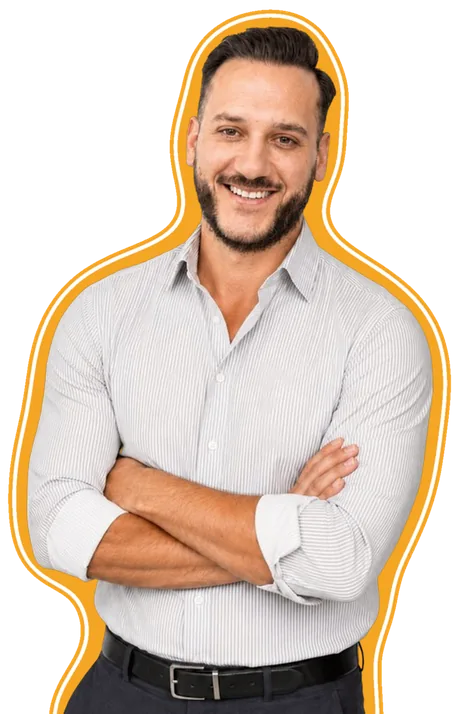
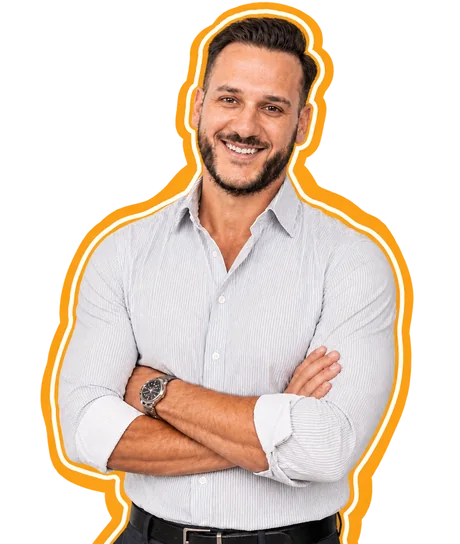
Portrait aus der fertigen Vorlage, Klebe-Sektion entfernt
PORTRAIT: nicht mehr nachgebaut, sondern Dusans fertige Datei
uebernommen ("ich hab dir doch das fertige gezeigt, das jetzige sieht
nicht so aus, zu glat alles"). Meine gerechnete Kontur war zu
gleichmaessig; seine traegt Weiss direkt am Koerper und aussen das
amberne Band, gemessen 23 bzw. 12 px.

Zugeschnitten auf Huefthoehe. Der Guertel wurde gemessen, nicht
geschaetzt: groesster Helligkeitsbruch bei 75,3 Prozent der Bildhoehe,
vier Kandidaten dicht beisammen. Schnitt knapp darunter, Leinwand
1024x1210.

Weil die Motivhoehe im Layout fest ist, macht der flachere Zuschnitt das
Motiv BREITER: Verhaeltnis 0,8463 statt 0,6443, gerendert 404 statt
308 px. Das Seitenverhaeltnis ist an einer Stelle fest verdrahtet und
wandert mit.

Der CSS-Schein ist entfernt: Kontur UND Schein stecken jetzt in der
Bilddatei, ein Filter kaeme obendrauf. Zweimal falsch entfernt, bevor es
sass - der erste Treffer der Zeichenfolge in der Datei gehoert dem
Fussmotiv, nicht dem Portrait.

KLEBE-SEKTION: auf Ansage komplett entfernt ("diese section komplett
raus"). 24 Zeilen Markup, 20 Zeilen Stylesheet. Drei Regeln teilten den
Selektor mit der FAQ-Sektion - dort wurde NUR der kleben-Teil entfernt,
.faq, .faq > * und .faq__links bleiben unberuehrt. Eine davon
(.kleben__halt) hatte meine Suche mit Wortgrenze uebersehen, weil der
Unterstrich als Wortzeichen zaehlt; per Praefix gefunden.

Gemessen bei 1440 und 1200: Verhaeltnis 0,8463, unten 0,00 px auf der
[…]

diff --git a/stil.css b/stil.css
@@ -938,26 +938,6 @@ a:hover .rolle > span,button:hover .rolle > span{transform:translateY(-100%)}
 .vref__chips em{display:block;font-style:normal;font-size:13px;
   color:rgb(247 247 245 / .6)}
 
-/* ── 5 · Klebe-Sektion ─────────────────────────────────────── */
-/* Ohne die untere Grenze klebt der Block unter 1600 px an den
-   Bildschirmraendern — die Sektion haengt direkt in main und hat
-   keinen eigenen Seitenabstand. */
-.kleben{margin:var(--sec) auto 0;max-width:min(var(--maxw),calc(100% - var(--pad) * 2));
-  background:var(--tinte);
-  color:var(--creme);border-radius:var(--r-seite);padding:clamp(40px,4vw,70px);
-  display:grid;grid-template-columns:1fr 1fr;gap:60px;align-items:start}
-.kleben__halt{position:sticky;top:130px}
-.kleben__karten{display:grid;gap:16px}
-.kleben__karten li{background:var(--tinte-2);border-radius:var(--r-mittel);
-  padding:32px 34px;display:grid;gap:8px;
-  transition:background-color var(--t-flaeche) var(--kurve),
-    transform var(--t-bedien) var(--kurve)}
-.kleben__karten li:hover{background:#241f1a;transform:translateX(8px)}
-.kleben__karten b{font-family:'Rock Salt',cursive;font-size:16px;font-weight:400;
-  color:var(--violett-hell)}
-.kleben__karten h3{color:var(--creme)}
-.kleben__karten p{color:rgb(247 247 245 / .62);font-size:17px}
-
 /* ── 6 · Arbeiten ──────────────────────────────────────────── */
 .arbeiten{padding:var(--sec) var(--pad) 0;max-width:calc(var(--maxw) + var(--pad) * 2);margin:0 auto}
 .arbeiten .kopfzeile{max-width:var(--maxw);margin-inline:auto}
@@ -1802,17 +1782,9 @@ body.langtakt .preis__neu{font-size:1em;opacity:1}
   /* Die Kontur steckt bereits im freigestellten Motiv. Der Schein
      daneben ist unserer: weich und rundherum, kein gezeichneter Rand —
      dieselbe Sprache wie Box und Kopfleiste. */
-  filter:drop-shadow(0 0 26px rgb(255 255 255 / .55))
-         drop-shadow(0 0 70px rgb(255 255 255 / .35))}
-/* Der Platz-Freiraum fuer die Person steht NICHT hier, sondern hinter den
-   Basisregeln von .fuss__recht weiter unten — sonst gewinnt die spaetere
-   Basisregel und die Medienabfrage bleibt wirkungslos. Genau das ist hier
-   zweimal passiert. */
-/* Schmale Schirme: kein Platz neben dem Inhalt, das Motiv entfaellt. */
-@media (max-width:900px){
-  .fuss::after{display:none}
-}
-.fuss__oben{max-width:var(--maxw);margin:0 auto;display:grid;
+  /* KEIN filter mehr: Kontur UND Schein stecken seit dem
+     20.09.2026 in Dusans fertiger Bilddatei. Ein CSS-Schein kaeme
+     hier obendrauf und wuerde den vorhandenen zuziehen. */margin:0 auto;display:grid;
   grid-template-columns:1fr 1fr;gap:clamp(40px,5vw,90px);align-items:start}
 
 .fuss__reden .brush{color:var(--tinte)}
@@ -2443,7 +2415,7 @@ body.langtakt .preis__neu{font-size:1em;opacity:1}
   .nav__wege{display:none}
   .nav__pille{padding-left:22px}
   .buehne{min-height:auto}
-  .faq,.kleben{grid-template-columns:minmax(0,1fr);gap:36px}
+  .faq{grid-template-columns:minmax(0,1fr);gap:36px}
   .lz__leib{grid-template-columns:minmax(0,1fr);gap:24px}
   /* Einspaltig heisst nur: EINE Spur ist definiert. Kinder, die
      weiterhin grid-column:2 verlangen, bekommen vom Browser eine
@@ -2459,7 +2431,7 @@ body.langtakt .preis__neu{font-size:1em;opacity:1}
     border-top:1px solid rgb(247 247 245 / .18);padding-top:14px}
   .lz__bild img{height:200px}
   .dienste__vorschau{display:none}
-  .kleben__halt,.faq__links{position:static}
+  .faq__links{position:static}
   .ref__reihe{grid-template-columns:repeat(2,minmax(0,1fr))}
   .fall__raster{grid-template-columns:minmax(0,1fr);height:auto}
   .fall__bild{display:none}
@@ -2479,7 +2451,7 @@ body.langtakt .preis__neu{font-size:1em;opacity:1}
   /* Kinder duerfen unter ihre Mindestbreite — sonst bleibt die
      Spalte trotz minmax(0,1fr) am laengsten Wort haengen. */
   .fuss__oben > *,.fuss__spalten > *,.unter__leib > *,
-  .faq > *,.kleben > *{min-width:0}
+  .faq > *{min-width:0}
   .fuss__spalten{grid-template-columns:minmax(0,1fr) minmax(0,1fr)}
   .fuss__wortmarke{font-size:clamp(60px,19vw,120px)}
   /* Ohne Zeiger gibt es keinen Hover — die Lamellen werden zum
@@ -3487,25 +3459,19 @@ body.langtakt .preis__neu{font-size:1em;opacity:1}
 .erst__foto{position:absolute;left:50%;transform:translateX(-50%);
   bottom:calc(-1 * (clamp(28px,2.6vw,46px) + var(--voll-ueber)));
   height:calc(100% + clamp(28px,2.6vw,46px) + var(--voll-ueber));
-  /* 20.09.2026, Dusans Vorlage: doppelte Kontur, weiss innen, amber
-     aussen. Beide stecken in der Bilddatei (Alphamaske zweimal
-     aufgeweitet), darum ist die Leinwand zuletzt auf 1016x1577
-     gewachsen. Das Verhaeltnis MUSS hier mitwandern, sonst passt der
-     Kasten nicht mehr zum Motiv und die Unterkante steht nicht mehr
-     buendig auf der Kartenkante. Gemessene Baender: je 14 px, bei
-     328 px Anzeigebreite also je 4,7 px. */
-  aspect-ratio:1016 / 1577;
+  /* 20.09.2026: Kontur und Schein stammen ab hier aus Dusans
+     fertiger Datei, nicht mehr aus einer gerechneten Maske
+     ("ich hab dir doch das fertige gezeigt"). Zugeschnitten auf
+     Huefthoehe - der Guertel wurde gemessen, nicht geschaetzt:
+     Helligkeitsbruch bei 75,3 Prozent der Bildhoehe, vier
+     Kandidaten dicht beisammen. Leinwand 1024x1210, Verhaeltnis
+     0,8463 statt 0,6443 - weil die Hoehe im Layout fest ist,
+     wird das Motiv dadurch 404 statt 308 px breit. */
+  aspect-ratio:1024 / 1210;
   background:url("bilder/erst-person-900.webp") bottom center/contain no-repeat;
-  /* 20.09.2026, Dusan: Ringfarben vertauscht (amber innen an der
-     Silhouette, weiss aussen) und "auch etwas mehr wie beim portrait
-     im footer". Der Schein ist deshalb derselbe wie dort, Wert fuer
-     Wert: zwei weiche weisse Ringe, siehe .fuss::after.
-     Vorher stand hier Amber, weil ein weisser Schein den damaligen
-     amberen AUSSENring zugezogen haette. Mit Weiss aussen ist es
-     umgekehrt — der Schein verlaengert den Ring, statt ihn zu
-     schlucken. Wer die Ringfarben wieder dreht, dreht auch das hier. */
-  filter:drop-shadow(0 0 26px rgb(255 255 255 / .55))
-         drop-shadow(0 0 70px rgb(255 255 255 / .35));
+  /* KEIN filter: Kontur UND Schein stecken seit dem 20.09.2026 in
+     Dusans fertiger Bilddatei. Ein CSS-Schein kaeme obendrauf und
+     wuerde den vorhandenen zuziehen. */
   pointer-events:none}
 /* Handschrift und Namenszug sind am 20.09.2026 auf Dusans Ansage
    entfallen ("weg"): die rechte Haelfte traegt nur noch das Motiv.

diff --git a/index.html b/index.html
@@ -321,30 +321,6 @@ setTimeout(function(){document.documentElement.classList.remove("laedt")},8000)}
 
   </section>
 
-  <!-- ══ 5 · Klebe-Sektion: Problem → Antwort ══ -->
-  <section class="kleben">
-    <div class="kleben__links">
-      <div class="kleben__halt">
-        <span class="chip chip--hell" data-rein>Warum wir</span>
-        <h2 data-rein-zeilen><span>Marketing fühlt sich</span><span>schwerer an,</span><span>als es sein müsste.</span></h2>
-        <p class="fuehrung hell" data-rein>Fünf Sätze, die wir in Erstgesprächen
-          immer wieder hören. Und was wir dagegen tun.</p>
-      </div>
-    </div>
-    <ol class="kleben__karten">
-      <li data-rein><b>01</b><h3>Viele Beiträge, wenig Wirkung</h3>
-        <p>Wir bauen einen Redaktionsplan, der auf Zahlen fusst statt auf Bauchgefühl, und messen jedes Format an einem Ziel.</p></li>
-      <li data-rein><b>02</b><h3>Der Auftritt sagt nicht, wofür ihr steht</h3>
-        <p>Wir schärfen die Position, bevor irgendetwas gestaltet wird. Ein Satz, den alle im Team gleich sagen würden.</p></li>
-      <li data-rein><b>03</b><h3>Schöne Bilder, die nichts verkaufen</h3>
-        <p>Jedes Format bekommt ein Ziel und eine Zahl, an der es gemessen wird. Was nicht liefert, fliegt raus.</p></li>
-      <li data-rein><b>04</b><h3>Zu viele Ansprechpersonen</h3>
-        <p>Ein festes Team, eine Ansprechperson, jede Woche derselbe Rhythmus. Keine Weiterleitungen.</p></li>
-      <li data-rein><b>05</b><h3>Keine klare Richtung</h3>
-        <p>Ihr bekommt einen Brand Guide und Vorlagen, mit denen euer Team selbst weiterarbeitet.</p></li>
-    </ol>
-  </section>
-
   <!-- ══ 6 · Arbeiten ══ -->
   <!-- ══ Wie wir arbeiten ══ -->
   <section class="wiewir">
